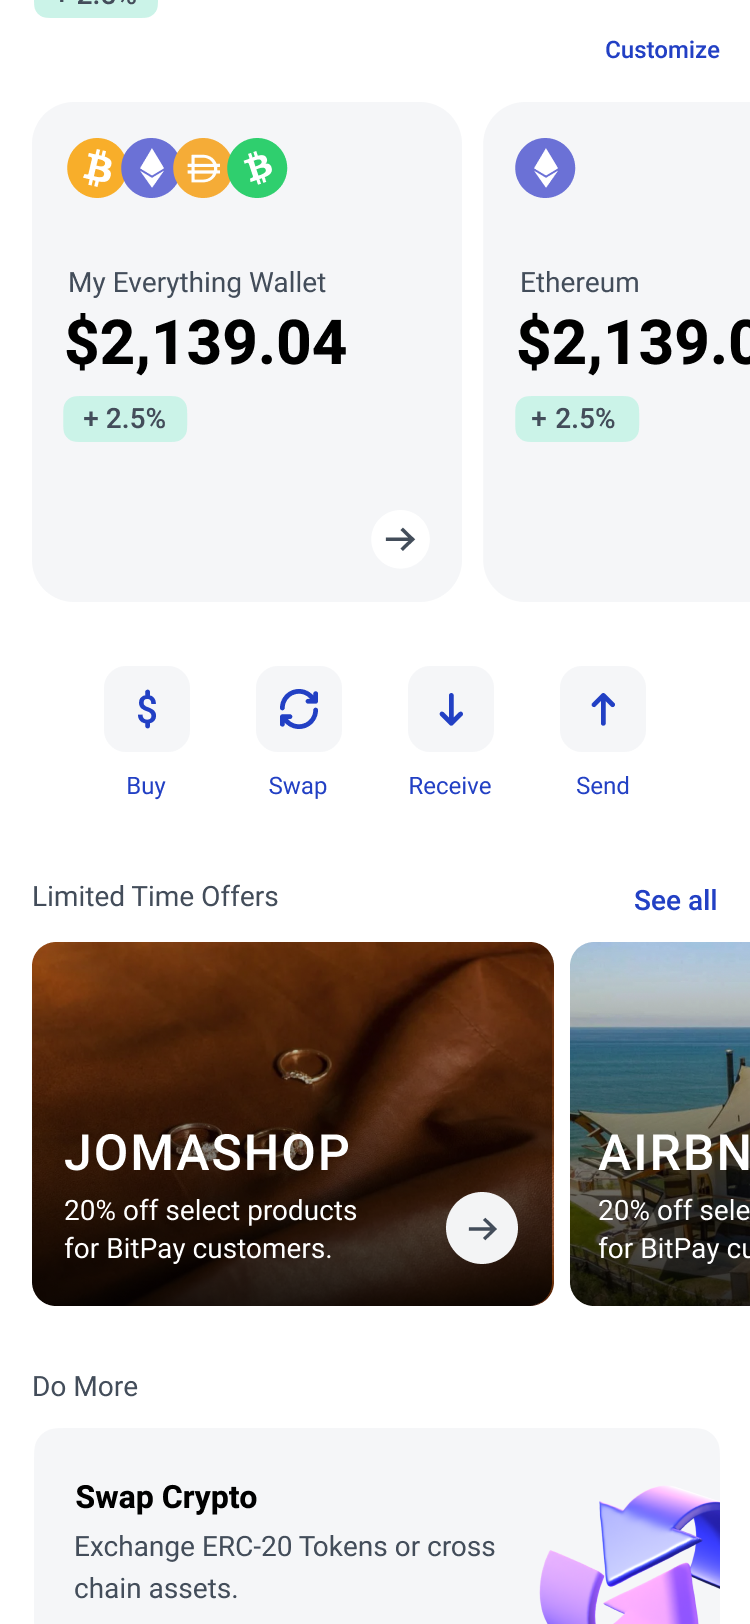
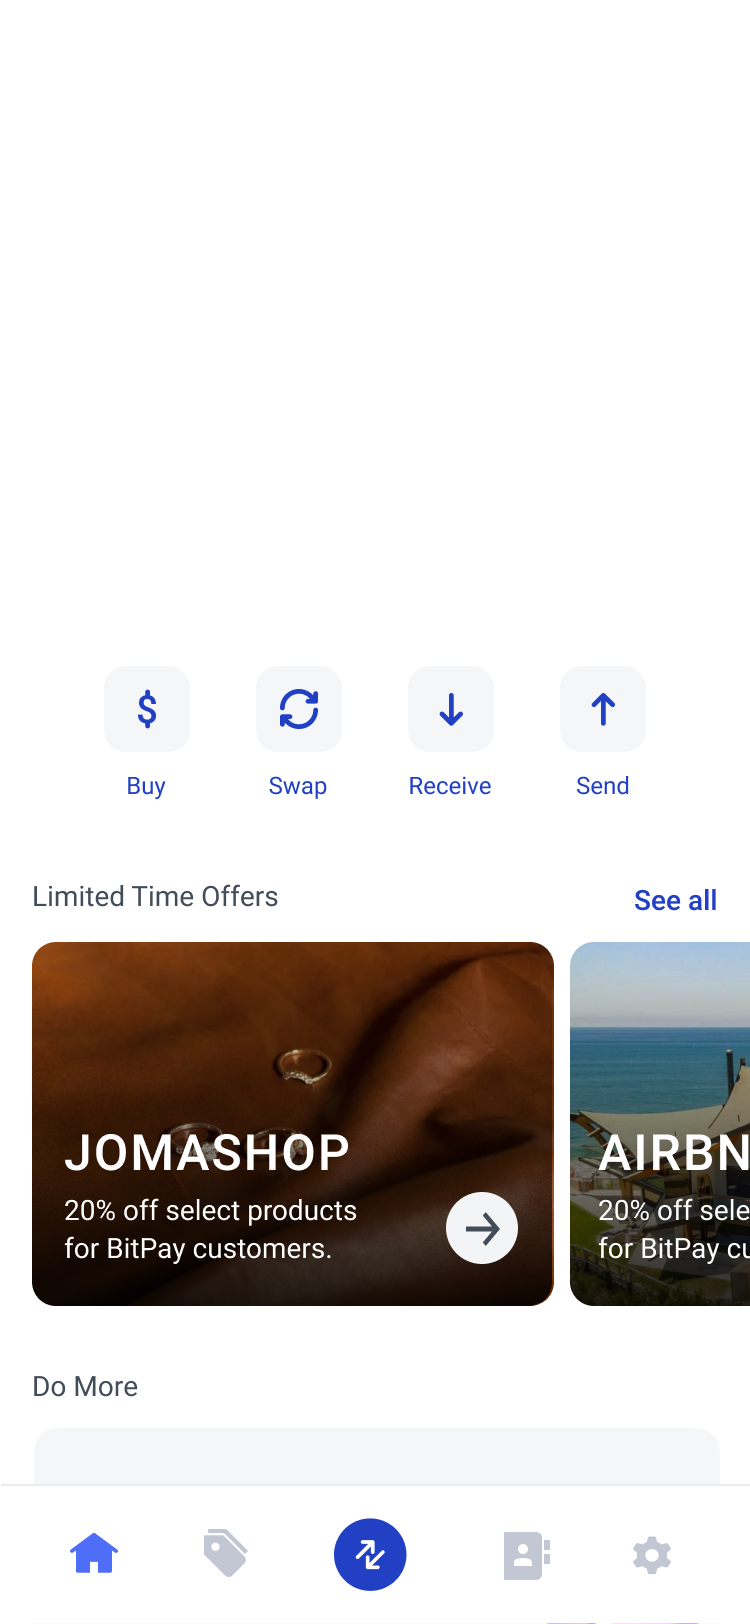
updated assets; add safe area view for debug

diff --git a/src/navigation/intro/screens/Wallet.tsx b/src/navigation/intro/screens/Wallet.tsx
@@ -51,7 +51,7 @@ const IntroWalletContainer = styled.View`
 `;
 
 const CarouselContainer = styled.View`
-  margin-top: 100px;
+  margin-top: 75px;
 `;
 
 const BodyTextContainer = styled.View`
@@ -95,7 +95,10 @@ const IntroWallet = () => {
   const navigation = useNavigation();
   return (
     <IntroWalletContainer>
-      <BackgroundImage source={theme.dark ? darkBackground : lightBackground} />
+      <BackgroundImage
+        source={theme.dark ? darkBackground : lightBackground}
+        style={{position: 'absolute', bottom: 0}}
+      />
       <Overlay />
       <Body>
         <CarouselContainer>

diff --git a/src/components/bp-devtools/BpDevtools.tsx b/src/components/bp-devtools/BpDevtools.tsx
@@ -6,7 +6,7 @@ import {RootState} from '../../store';
 import {AppActions} from '../../store/app';
 import haptic from '../haptic-feedback/haptic';
 
-const Container = styled.View`
+const Container = styled.SafeAreaView`
   align-items: center;
   border: 1px solid red;
   flex-direction: row;
